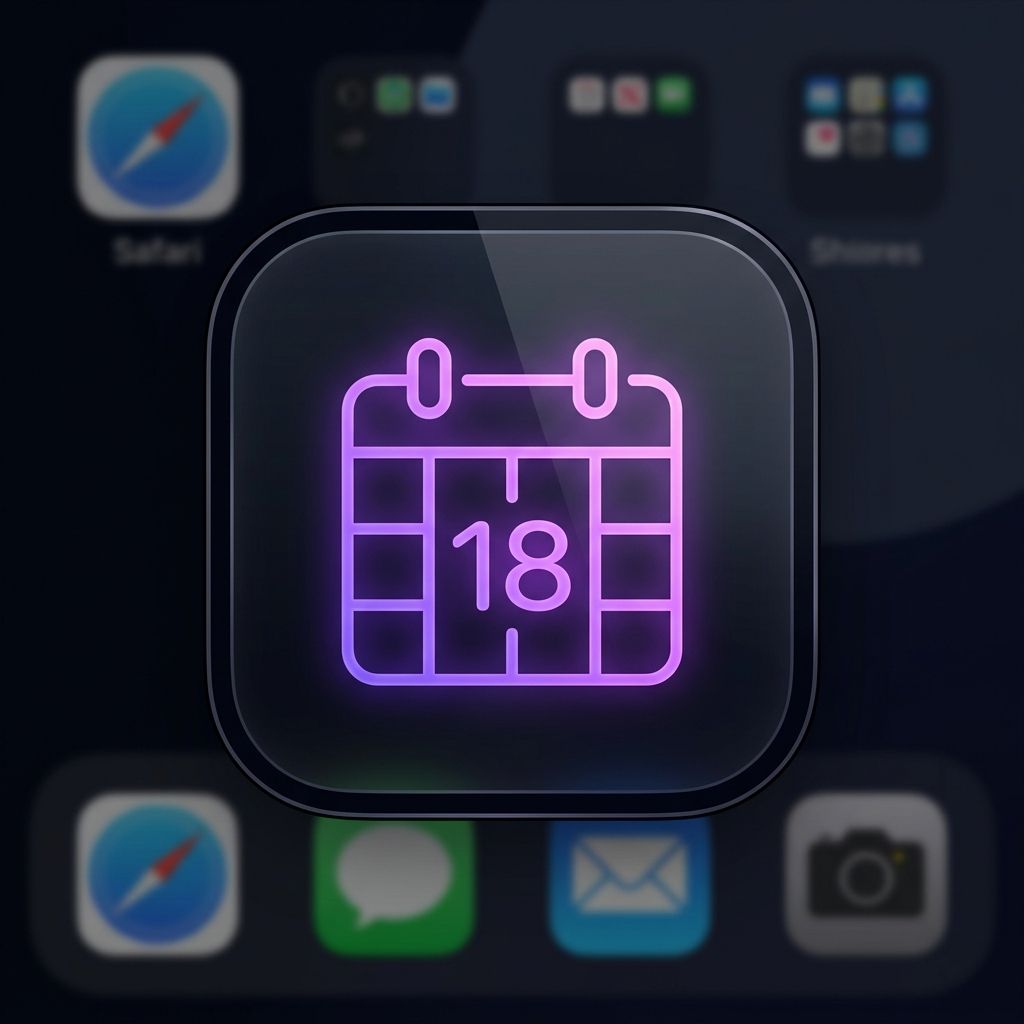
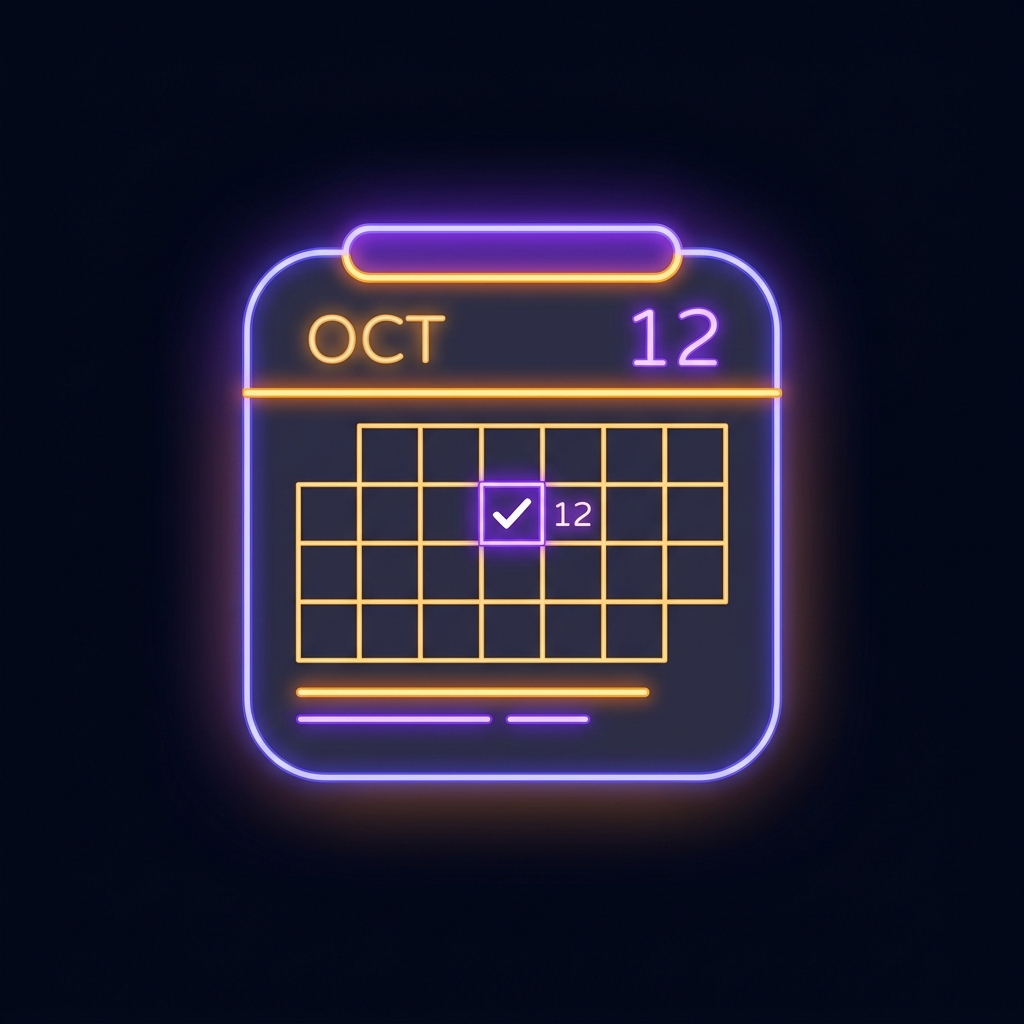
Añadido icono de calendario

diff --git a/public/sw.js b/public/sw.js
@@ -1,4 +1,4 @@
-const CACHE_NAME = 'app-mama-cache-v5';
+const CACHE_NAME = 'app-mama-cache-v6';
 const ASSETS_TO_CACHE = [
   './',
   './index.html',

diff --git a/src/components/Header.jsx b/src/components/Header.jsx
@@ -12,7 +12,7 @@ export default function Header({ activeTab, setActiveTab, tasks }) {
       <div className="flex flex-col md:flex-row md:items-center justify-between gap-4 pb-6 border-b border-slate-800">
         <div className="flex items-center gap-3">
           <div className="w-12 h-12 rounded-2xl bg-gradient-to-tr from-purple-600 to-indigo-500 flex items-center justify-center shadow-lg shadow-purple-950/40 glow-brand">
-            <Sparkles className="w-6 h-6 text-white animate-pulse" />
+            <Calendar className="w-6 h-6 text-white animate-pulse" />
           </div>
           <div>
             <h1 className="text-2xl font-bold tracking-tight text-white font-sans m-0">